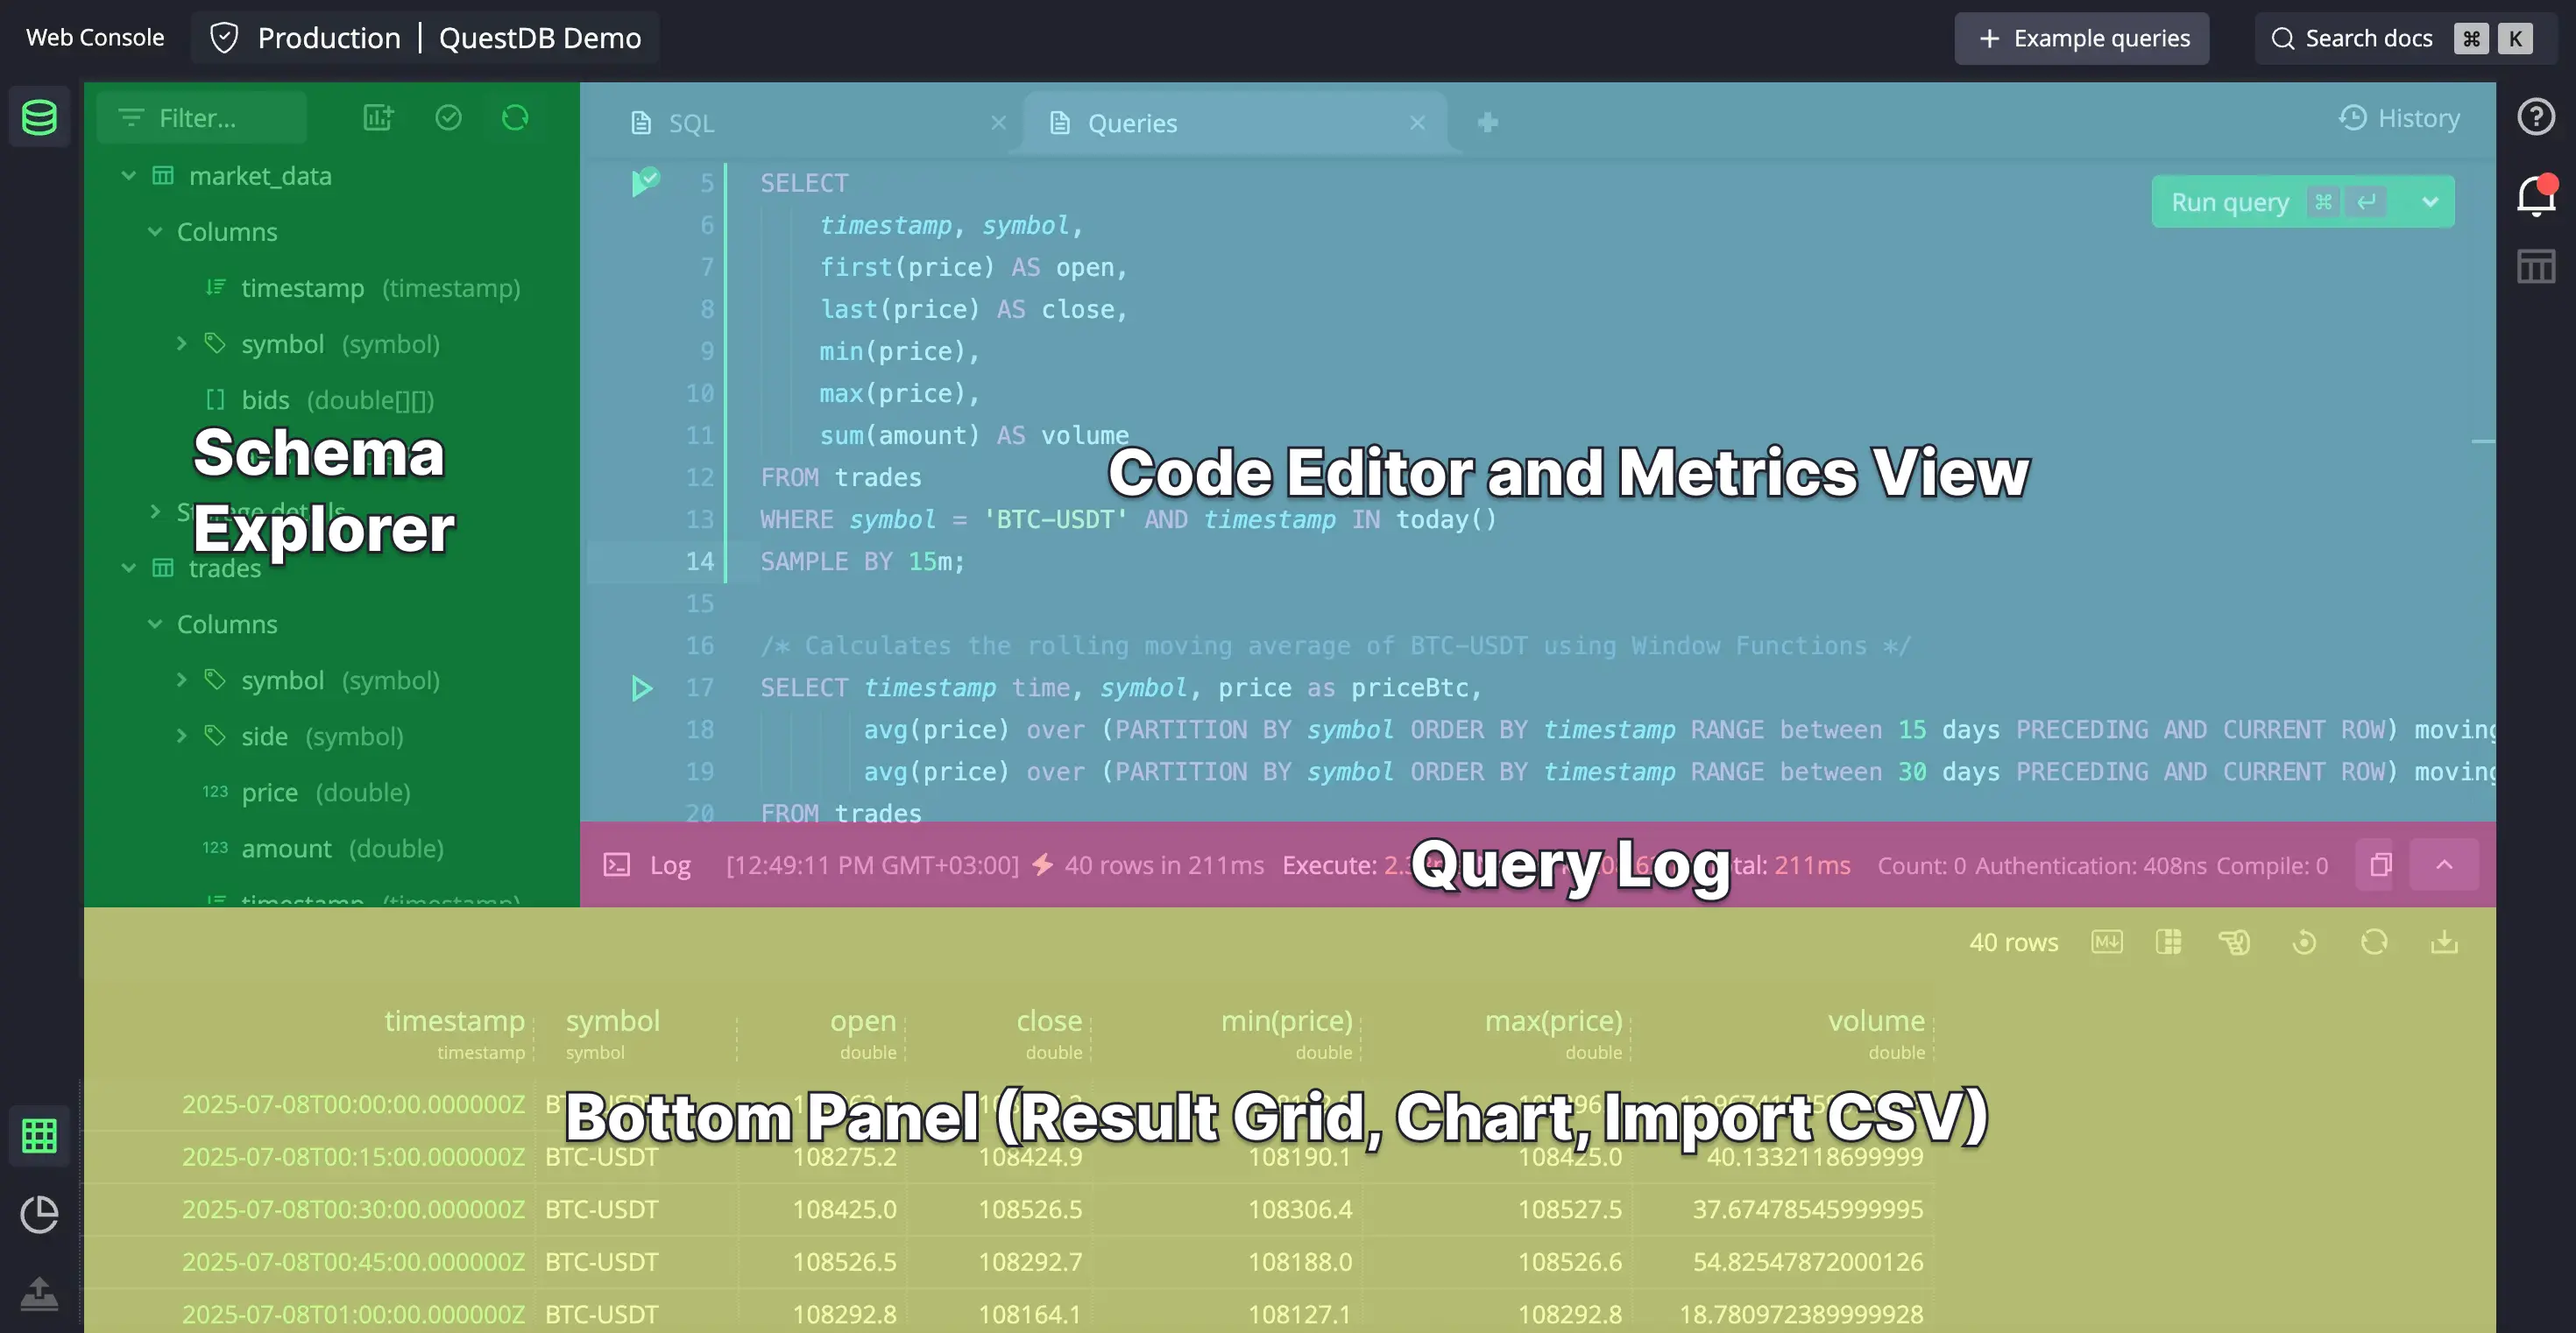
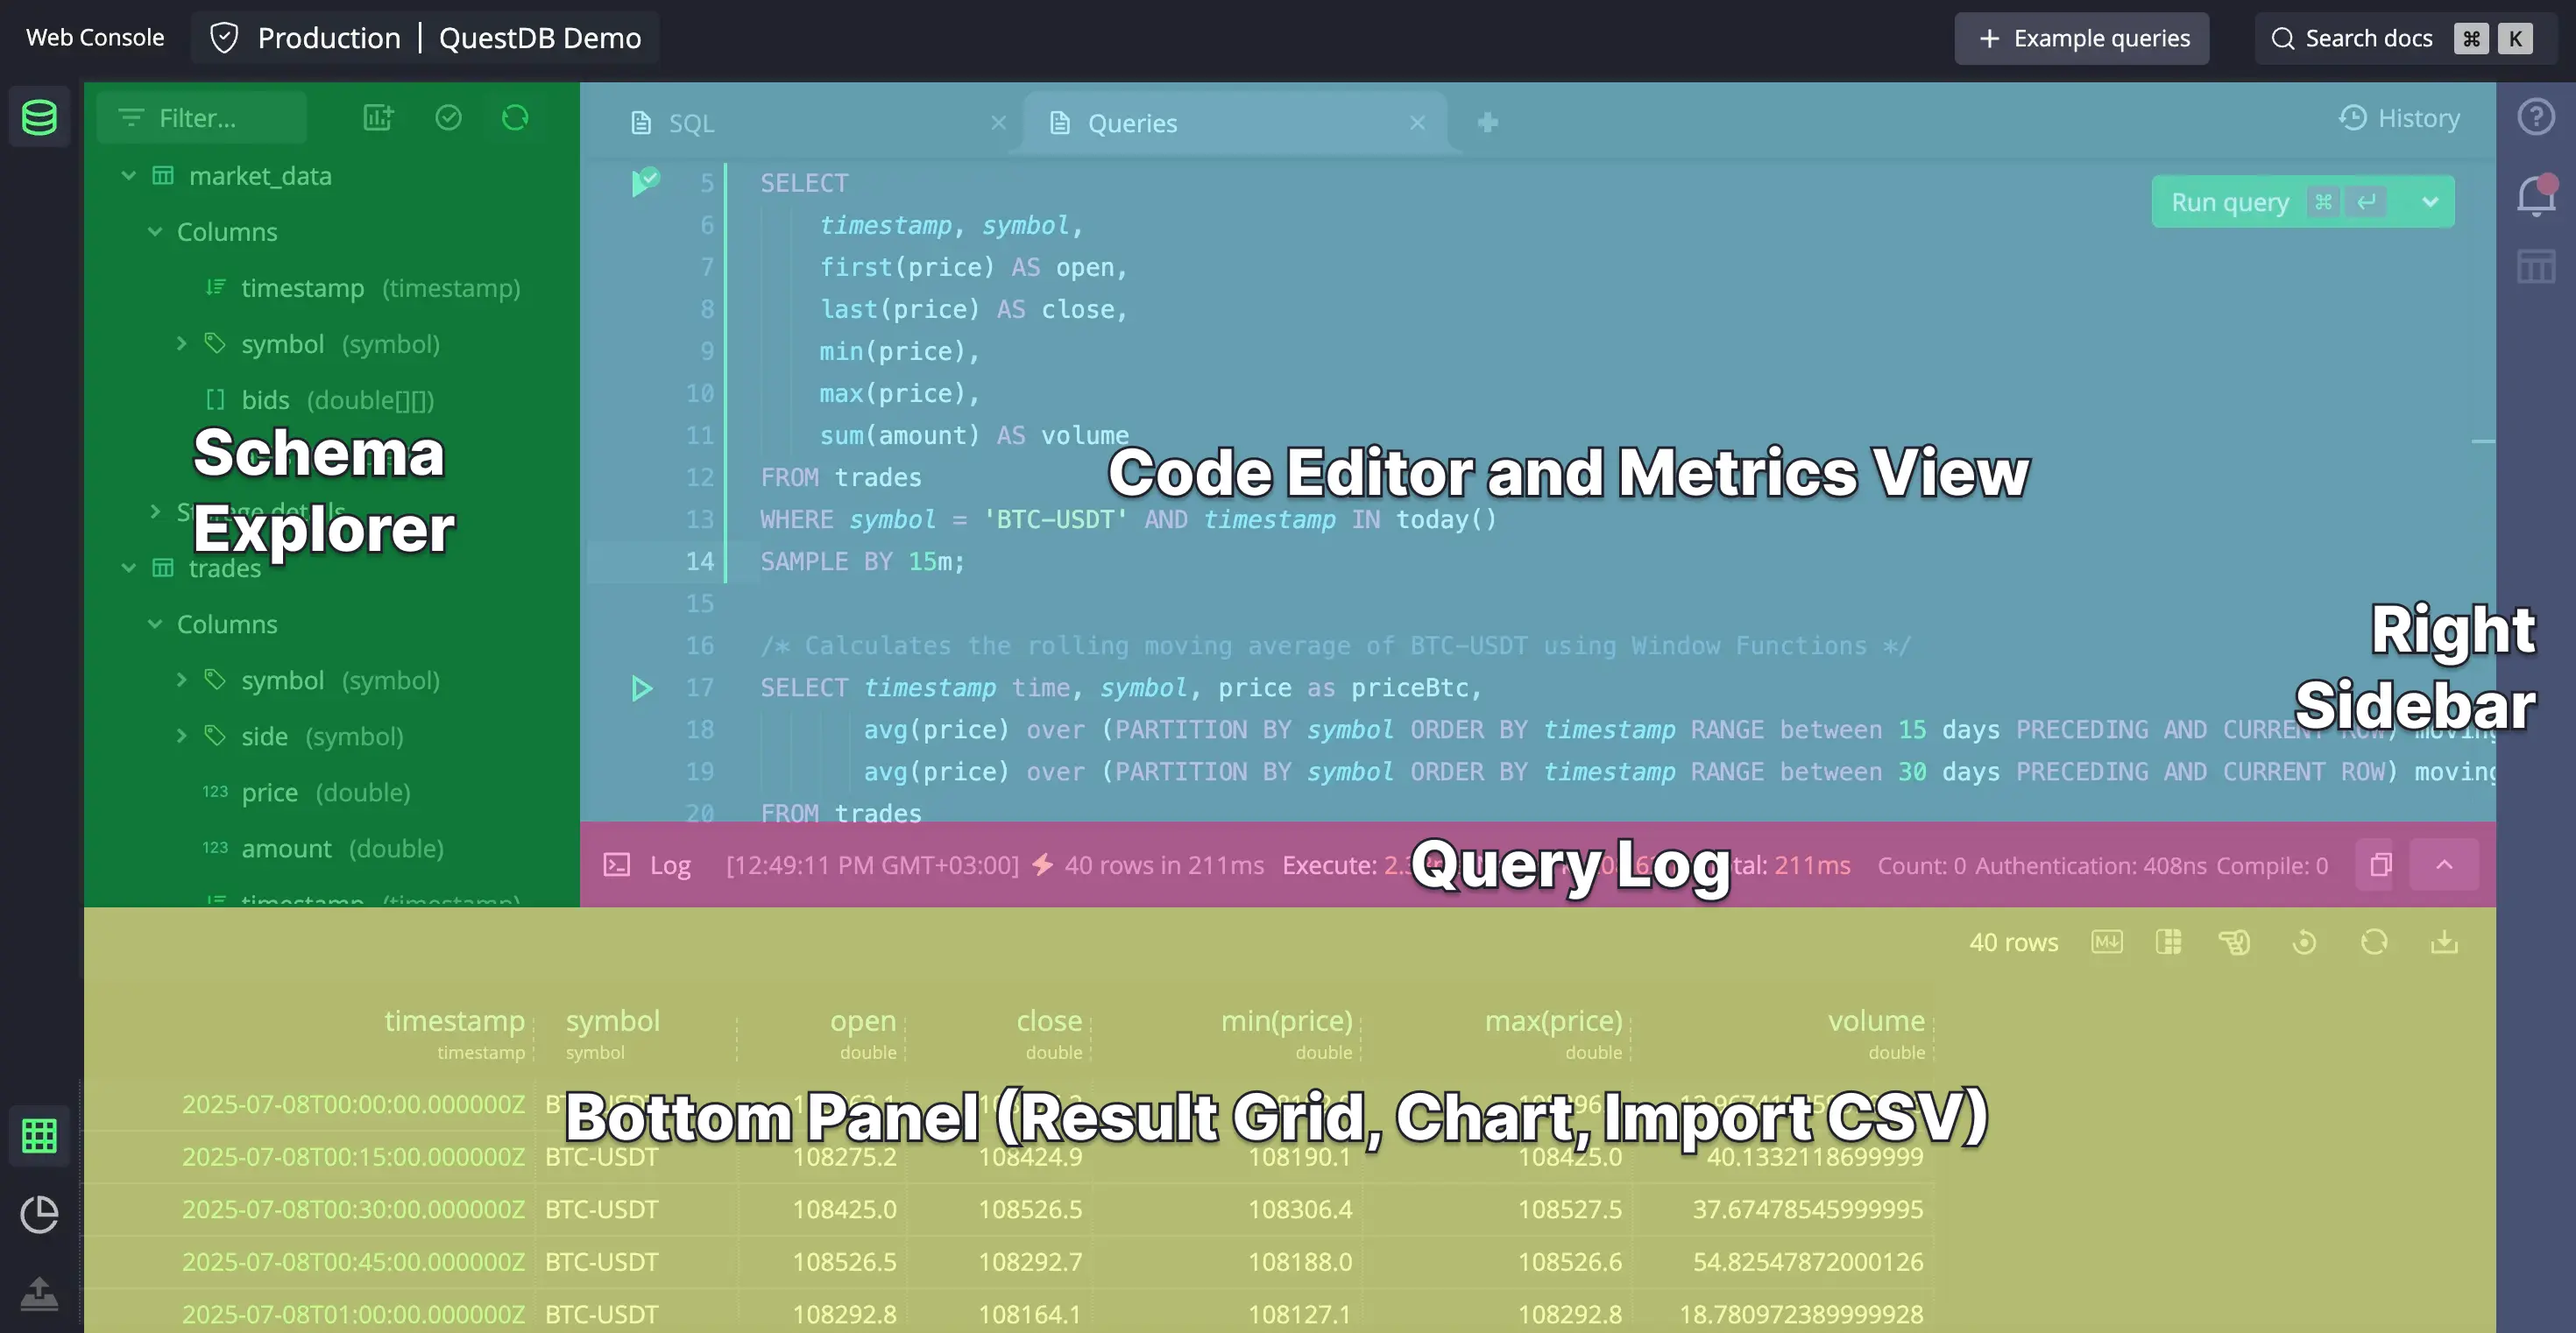
address reviews

Changed region(s): [[0.8667, 0.0618, 1.0, 1.0]]

diff --git a/documentation/web-console.md b/documentation/web-console.md
@@ -72,11 +72,14 @@ The **Import CSV** interface allows you to upload and import CSV files into Ques
 
 [Learn more about Import CSV →](/docs/web-console/import-csv)
 
-### Create Table
 
-The **Create Table** interface provides an interactive way to create new tables through an intuitive UI. You can define table structure, configure partition settings, enable WAL, and add columns with their data types and properties without writing SQL code.
+### Right Sidebar
 
-[Learn more about Create Table →](/docs/web-console/create-table)
+The **Right Sidebar** provides quick access to essential tools and information:
+- **Help**: Access quick links and contact options through a convenient help menu
+- **QuestDB News**: Stay up-to-date with the latest QuestDB announcements and updates
+- **Create Table**: Build new tables visually using an intuitive interface. Define table structure, configure partitioning, enable WAL, and add columns with their data types—all without writing SQL code. [Learn more about Create Table →](/docs/web-console/create-table)
+
 
 ### Instance Naming
 

diff --git a/documentation/web-console/metrics-view.md b/documentation/web-console/metrics-view.md
@@ -134,6 +134,10 @@ aspects to observe:
 - Any unusually small transactions that could be batched
 - Consistency of batch sizes across time periods
 
+:::info
+Metrics View displays key metrics for quick monitoring in the Web Console. For comprehensive metrics and advanced monitoring capabilities, see [Prometheus monitoring and alerting](/docs/third-party-tools/prometheus/).
+:::
+
 ## Best Practices
 
 - Limit the number of active widgets to maintain performance
